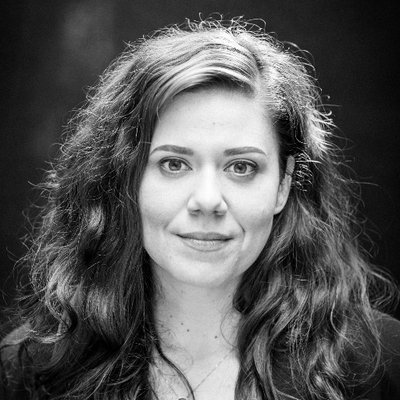
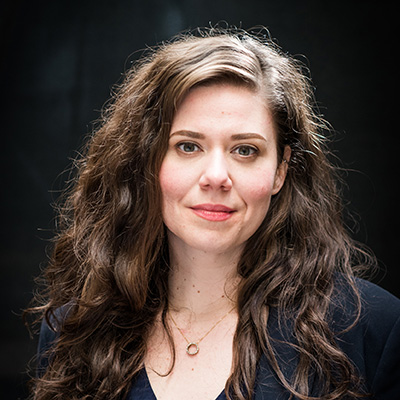
Update speaker headshots

diff --git a/speakers.html b/speakers.html
@@ -66,7 +66,7 @@
         </section>
         <section class="speaker  clearfix">
           <h2 class="speakerName">Cordelia Dillon</h2>
-          <img src="assets/speakers/a11yTOConf_SpeakerPicTemp.png" alt="Headshot of Cordelia Dillon">
+          <img src="assets/speakers/codeliadillon_400x400.jpg" alt="Headshot of Cordelia Dillon">
           <div>
             <a href="https://twitter.com/cordeliadillon" target="_blank">@cordeliadillon</a>
           </div>
